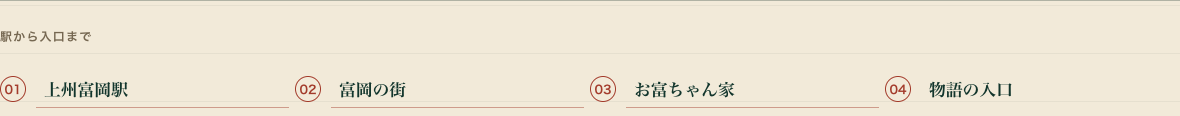
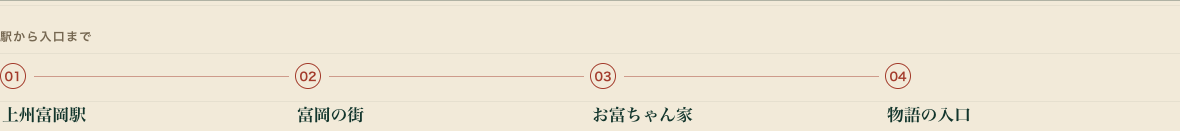
fix: stop the silk veil breaking every internal link in production
絹布トランジションが router.push へ location.pathname をそのまま渡していた。
GitHub Pages 配信では basePath（/tomioka）が含まれるが、router.push は
basePath を自分で前置するため二重になり、街歩きマップも開催情報も
/tomioka/tomioka/... へ飛んで開けなくなっていた。

basePath が空のローカルでは再現しないため、テストも通っていた。
主要導線が実際に開くことを確認する e2e を追加し、basePath を付けた
静的書き出しに対して回るようにした（basePath 二重化も明示的に検査する）。

diff --git a/src/components/arrival/OtomiArrival.module.css b/src/components/arrival/OtomiArrival.module.css
@@ -67,10 +67,31 @@
 @keyframes react { 0%,100% { transform: translateY(0) rotate(0); } 38% { transform: translateY(-6px) rotate(-3deg); } 70% { transform: translateY(-1px) rotate(2deg); } }
 @media (min-width:768px) {
   .arrival { grid-template-columns: minmax(0,1.08fr) minmax(300px,.92fr); gap: 38px clamp(38px,5vw,78px); padding: 120px max(36px,calc((100vw - 1180px)/2)) 132px; scroll-margin-top: 132px; }
-  .heading { grid-column: 1 / -1; max-width: 58rem; }.heading h2 { max-width: none; font-size: clamp(4rem,6.8vw,6.8rem); }
+  .heading { grid-column: 1 / -1; max-width: 58rem; }
+  /* 巨大化をやめ、他セクションと同じ明朝の声へ揃える。
+     98px まで拡大していたため「物語の入口は、」で折り返し、
+     行末に読点だけが残っていた（指摘事項）。1 行に収める。 */
+  .heading h2 { max-width: none; font-size: clamp(1.9rem,3.2vw,2.6rem); }
+  .heading h2 span,.heading h2 strong { display: inline; white-space: nowrap; }
+  .heading h2 strong::after { bottom: -0.06em; }
   .place { grid-row: span 2; align-self: start; }.photo { min-height: clamp(420px,52vw,650px); }.ticket { align-self: end; padding: 32px 28px; }.guide { align-self: start; }
-  .route,.actions { grid-column: 1 / -1; }.route ol { grid-template-columns: repeat(4,minmax(0,1fr)); }.route li { grid-template-columns: 32px minmax(0,1fr); padding-right: 20px; }
-  .route li:not(:last-child)::after { top: calc(50% + 18px); right: 6px; bottom: auto; left: 36px; width: auto; height: 1px; }
+  .route,.actions { grid-column: 1 / -1; }
+  .route ol { grid-template-columns: repeat(4,minmax(0,1fr)); }
+
+  /* 番号と地名を上下に分ける。
+     横一列のまま線を引くと、線が地名の幅いっぱいを走り、
+     交差していなくても「取り消し線」に見える（指摘事項）。
+     線は丸印どうしだけをつなぎ、文字の高さには一切入らない。 */
+  .route li { grid-template-columns: minmax(0,1fr); gap: 10px; padding-right: 20px; }
+  .route li:not(:last-child)::after {
+    top: 13px;
+    right: 6px;
+    bottom: auto;
+    left: 34px;
+    width: auto;
+    height: 1px;
+  }
+  .route li strong { padding-left: 2px; }
   .actions { grid-template-columns: 1.35fr 1fr 1fr; }
 }
 @media (min-width:1100px) { .heading { margin-left: clamp(70px,8vw,132px); }.place { margin-top: -12px; }.ticket { margin-top: 60px; } }
@@ -103,6 +124,18 @@
   transform-origin: top;
   scale: 1 0;
   transition: scale 520ms cubic-bezier(0.22, 1, 0.36, 1);
+}
+
+/* 横に引く画面幅では、左から右へ伸びる */
+@media (min-width: 768px) {
+  .route li:not(:last-child)::after {
+    transform-origin: left;
+    scale: 0 1;
+  }
+
+  .route li[data-reached="true"]:not(:last-child)::after {
+    scale: 1 1;
+  }
 }
 
 .route li[data-reached="true"]:not(:last-child)::after {

diff --git a/src/components/immersive/SilkVeilTransition.tsx b/src/components/immersive/SilkVeilTransition.tsx
@@ -21,6 +21,23 @@ import styles from "./SilkVeilTransition.module.css";
 const COVER_MS = 560;
 const UNRAVEL_MS = 880;
 
+/**
+ * basePath 付きの絶対パスから、next/navigation が扱う内部パスへ戻す。
+ *
+ * GitHub Pages 配信では location.pathname に basePath（/tomioka）が含まれる。
+ * router.push は basePath を自分で前置するため、剥がさずに渡すと
+ * /tomioka/tomioka/map になり、街歩きマップも開催情報も開かなくなる。
+ * basePath が空のローカルでは再現しないので、必ず basePath 付きで検証すること。
+ */
+const BASE_PATH = process.env.NEXT_PUBLIC_BASE_PATH ?? "";
+
+function toInternalPath(pathname: string): string {
+  if (!BASE_PATH) return pathname;
+  if (pathname === BASE_PATH) return "/";
+  if (pathname.startsWith(`${BASE_PATH}/`)) return pathname.slice(BASE_PATH.length);
+  return pathname;
+}
+
 type Phase = "idle" | "cover" | "unravel";
 
 export function SilkVeilTransition() {
@@ -72,12 +89,13 @@ export function SilkVeilTransition() {
       event.preventDefault();
       event.stopPropagation();
       clearTimers();
-      pendingRef.current = window.location.pathname;
+      // 比較相手は usePathname（basePath を含まない）なので、表現を揃える
+      pendingRef.current = toInternalPath(window.location.pathname);
       setPhase("cover");
 
       // 布が渡りきってから遷移する。遷移が遅い場合でも布の裏で待つ
       const go = window.setTimeout(() => {
-        router.push(url.pathname + url.search + url.hash);
+        router.push(toInternalPath(url.pathname) + url.search + url.hash);
       }, COVER_MS - 60);
       timersRef.current.push(go);
 

diff --git a/src/components/map/EventAreaMap.module.css b/src/components/map/EventAreaMap.module.css
@@ -547,7 +547,9 @@
 @media (max-width: 899px) {
   .section {
     width: min(calc(100% - 32px), 720px);
-    padding: 58px 0 72px;
+    /* 一覧の下に 72px の空白が残り、意味のない余白として見えていた（指摘事項）。
+       一覧のすぐ下からフッターへ続くようにする。 */
+    padding: 58px 0 0;
   }
 
   .headingRow {
@@ -564,7 +566,7 @@
 
   /* 地図と一覧を通常フローで積み、一覧の下に固定高由来の空白を残さない。 */
   .mapShell {
-    --map-sheet: min(38svh, 300px);
+    --map-sheet: min(42svh, 330px);
     display: block;
     min-height: 0;
     box-shadow: none;
@@ -617,7 +619,11 @@
   .indexPanel {
     max-height: var(--map-sheet);
     overflow: auto;
-    padding: 24px 22px max(26px, var(--safe-bottom));
+    /* 下端は行の途中で切れる。スクロールできることが分かるよう、
+       最後に薄い紙のフェードを重ねる（下の空白では伝えない） */
+    padding: 20px 22px max(20px, var(--safe-bottom));
+    -webkit-mask-image: linear-gradient(to bottom, #000 0, #000 calc(100% - 26px), transparent 100%);
+    mask-image: linear-gradient(to bottom, #000 0, #000 calc(100% - 26px), transparent 100%);
   }
 
   .indexPanel h3,

diff --git a/src/app/page.module.css b/src/app/page.module.css
@@ -754,7 +754,7 @@
   .steps::before {
     top: 20px;
     bottom: 20px;
-    left: 8px;
+    left: 6px;
   }
 
   .steps li {
@@ -819,12 +819,14 @@
 
 /* --- キットの道具（SVG）の置き場 ----------------------------------------- */
 
-/* 封蝋は、参加のしかたの紙を留めているように左肩へ */
+/* 封蝋は紙を留める。ただし壱弐参の丸印の列には掛けない。
+   左肩に置くと、綴じの罫と番号のあいだに割り込んで読みにくくなる（指摘事項）。
+   番号の列から離した紙の右肩へ移す。 */
 .stepObjects {
   position: absolute;
+  right: clamp(18px, 6vw, 64px);
   z-index: 4;
-  margin-top: clamp(28px, 4vw, 50px);
-  margin-left: -14px;
+  margin-top: clamp(56px, 8vw, 92px);
   font-size: 30px;
   pointer-events: none;
 }
